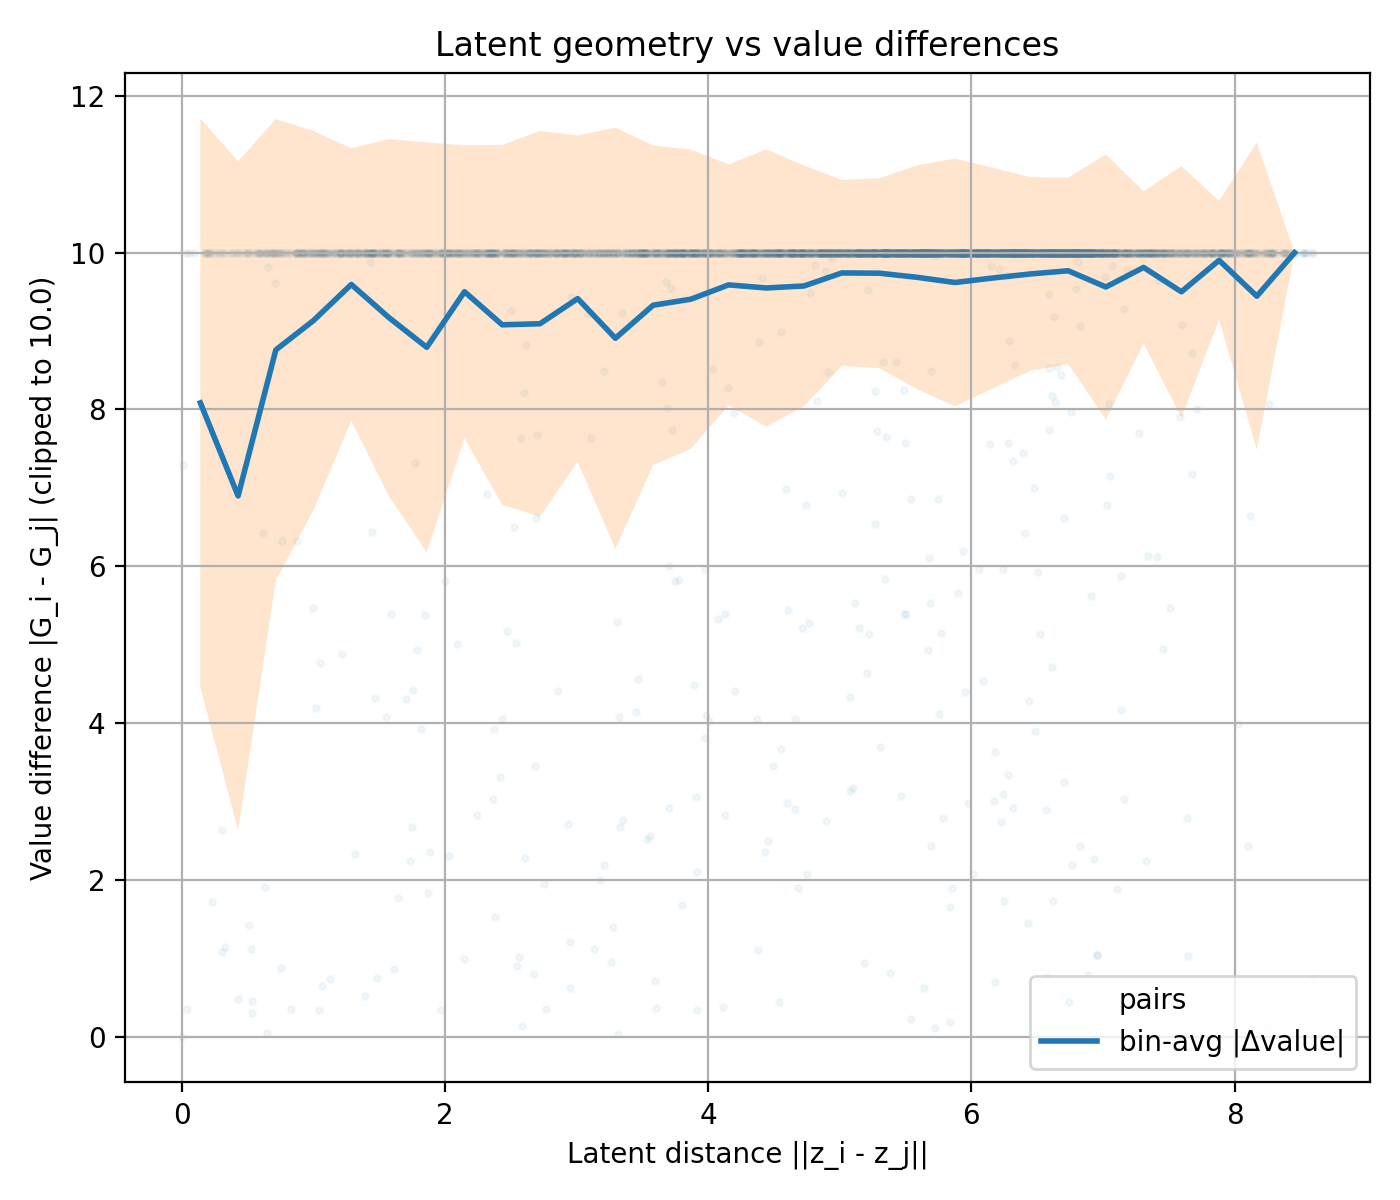
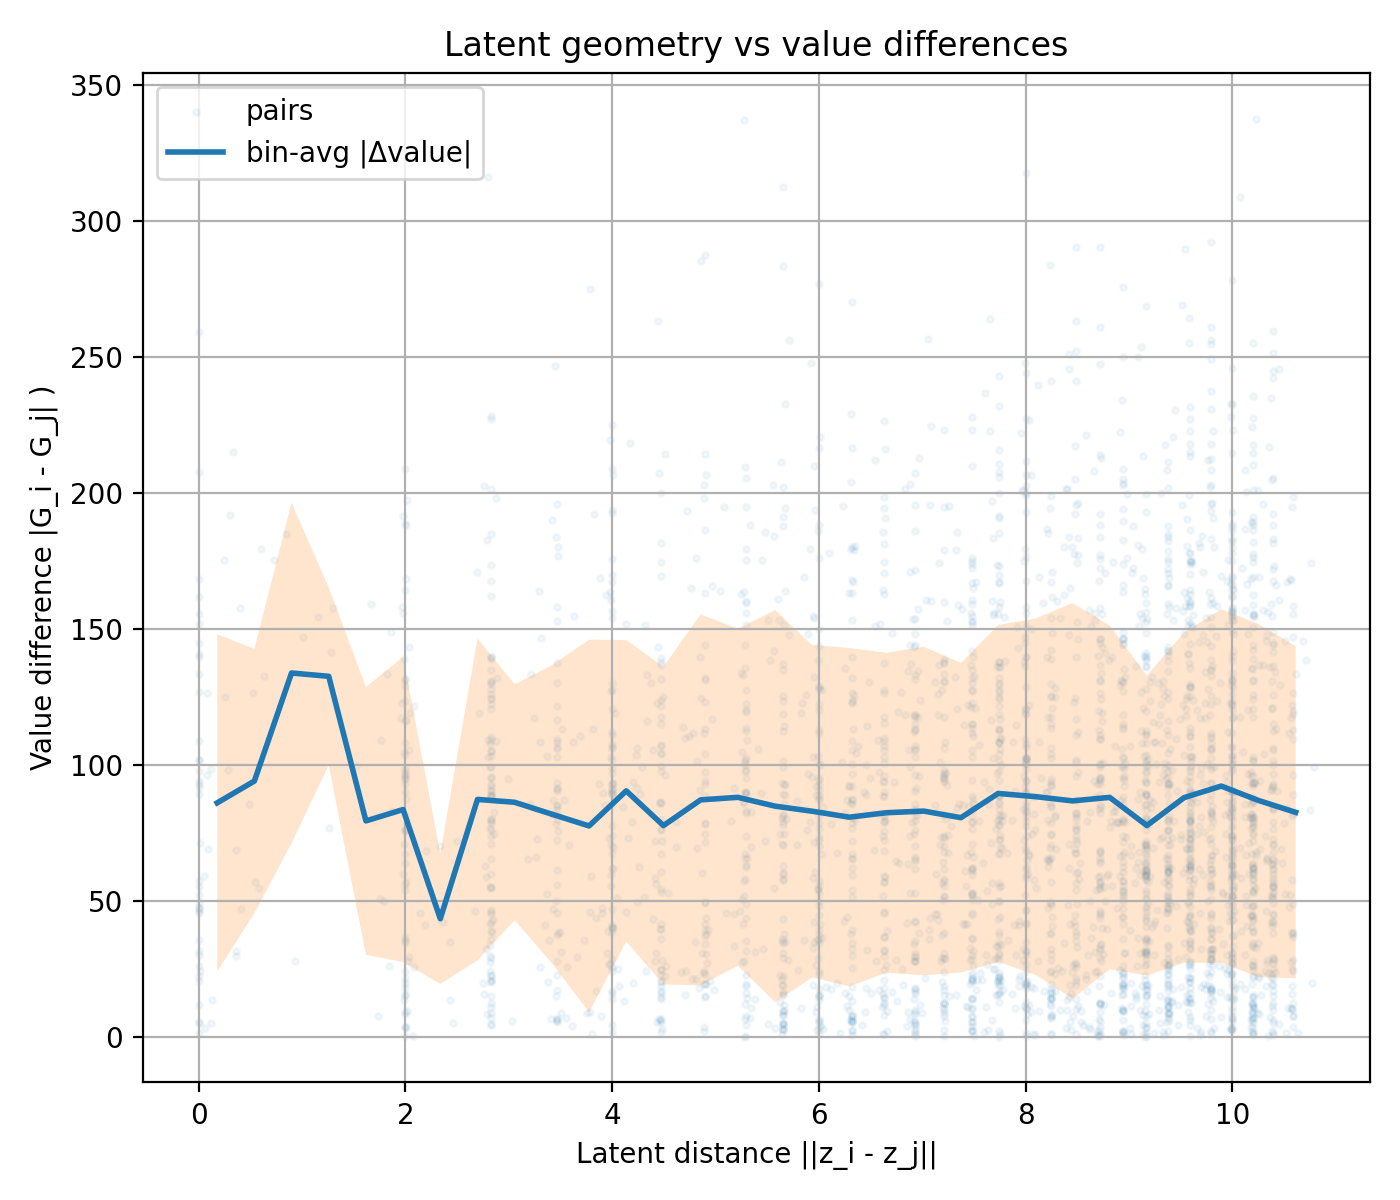
working cnn enc/dec bad sampling

diff --git a/geo_grid.py b/geo_grid.py
@@ -7,6 +7,7 @@ import gymnasium as gym
 import numpy as np
 import torch
 import torch.nn as nn
+import torch.nn.functional as F
 from torch.utils.tensorboard import SummaryWriter
 import matplotlib.pyplot as plt
 
@@ -27,6 +28,8 @@ SEQ_LEN = 50
 
 LATENT_DIM = 32
 HIDDEN_DIM = 128
+RECON_LOSS_WEIGHT = 1.0
+IMG_DOWNSAMPLE = 3  # simple stride downsample of rendered frames
 
 GAMMA = 0.99
 
@@ -78,18 +81,54 @@ def set_seed(seed: int = 0):
     torch.manual_seed(seed)
 
 
+def downsample_image(img: np.ndarray, factor: int = IMG_DOWNSAMPLE):
+    if factor <= 1:
+        return img
+    return img[::factor, ::factor]
+
+
+class PixelObsWrapper(gym.Wrapper):
+    """
+    Replace state observations with rendered RGB frames (downsampled).
+    """
+    def __init__(self, env_id: str, downsample: int = IMG_DOWNSAMPLE):
+        env = gym.make(env_id, render_mode="rgb_array")
+        super().__init__(env)
+        self.downsample = downsample
+        # Probe to set observation space
+        obs, _ = self.env.reset()
+        img = downsample_image(self.env.render(), self.downsample)
+        self.obs_shape = img.shape
+        self.observation_space = gym.spaces.Box(
+            low=0, high=255, shape=self.obs_shape, dtype=np.uint8
+        )
+
+    def reset(self, **kwargs):
+        obs, info = self.env.reset(**kwargs)
+        img = downsample_image(self.env.render(), self.downsample)
+        return img, info
+
+    def step(self, action):
+        obs, reward, terminated, truncated, info = self.env.step(action)
+        img = downsample_image(self.env.render(), self.downsample)
+        return img, reward, terminated, truncated, info
+
+
 # ===============================
 #  Replay Buffer
 # ===============================
 
 class ReplayBuffer:
-    def __init__(self, capacity: int, obs_dim: int, act_dim: int):
+    def __init__(self, capacity: int, obs_shape, act_dim: int):
+        """
+        obs_shape: (H, W, C) pixel observations stored as uint8 for memory efficiency.
+        """
         self.capacity = capacity
-        self.obs = np.zeros((capacity, obs_dim), dtype=np.float32)
+        self.obs = np.zeros((capacity, *obs_shape), dtype=np.uint8)
         self.actions = np.zeros((capacity, act_dim), dtype=np.float32)
         self.rews = np.zeros(capacity, dtype=np.float32)
         self.dones = np.zeros(capacity, dtype=np.float32)
-        self.next_obs = np.zeros((capacity, obs_dim), dtype=np.float32)
+        self.next_obs = np.zeros((capacity, *obs_shape), dtype=np.uint8)
 
         self.idx = 0
         self.size = 0
@@ -160,20 +199,85 @@ class MLP(nn.Module):
         return self.net(x)
 
 
-class Encoder(nn.Module):
-    def __init__(self, obs_dim, latent_dim=LATENT_DIM):
+class ConvEncoder(nn.Module):
+    """
+    Lightweight CNN encoder for pixel observations (C, H, W) -> latent.
+    Uses three stride-2 conv blocks to downsample.
+    """
+    def __init__(self, obs_shape, latent_dim=LATENT_DIM):
         super().__init__()
-        self.net = MLP(obs_dim, latent_dim)
+        c, h, w = obs_shape
+        self.conv = nn.Sequential(
+            nn.Conv2d(c, 32, kernel_size=4, stride=2, padding=1),
+            nn.ReLU(),
+            nn.Conv2d(32, 64, kernel_size=4, stride=2, padding=1),
+            nn.ReLU(),
+            nn.Conv2d(64, 128, kernel_size=4, stride=2, padding=1),
+            nn.ReLU(),
+        )
+        # determine flattened size dynamically
+        with torch.no_grad():
+            dummy = torch.zeros(1, c, h, w)
+            out = self.conv(dummy)
+            self.conv_out_shape = out.shape[1:]  # (C, H, W)
+            conv_out_size = out.view(1, -1).size(1)
+        self.fc = nn.Linear(conv_out_size, latent_dim)
 
     def forward(self, obs):
-        # obs: [B, T, obs_dim] or [B, obs_dim]
-        if obs.dim() == 3:
-            B, T, D = obs.shape
-            x = obs.reshape(B * T, D)
-            z = self.net(x)
-            return torch.tanh(z).reshape(B, T, -1)
-        else:  # [B, D]
-            return torch.tanh(self.net(obs))
+        """
+        obs: [B, T, C, H, W] or [B, C, H, W]
+        """
+        if obs.dim() == 5:
+            B, T, C, H, W = obs.shape
+            x = obs.reshape(B * T, C, H, W)
+            x = x.contiguous()
+            z = self.fc(self.conv(x).view(B * T, -1))
+            return torch.tanh(z).view(B, T, -1)
+        else:
+            obs = obs.contiguous()
+            z = self.fc(self.conv(obs).view(obs.size(0), -1))
+            return torch.tanh(z)
+
+
+class ConvDecoder(nn.Module):
+    """
+    Lightweight CNN decoder: latent -> reconstructed pixels in [0,1].
+    Mirrors ConvEncoder with transposed convolutions.
+    """
+    def __init__(self, latent_dim: int, conv_out_shape):
+        super().__init__()
+        c, h, w = conv_out_shape
+        self.h = h
+        self.w = w
+        self.fc = nn.Linear(latent_dim, c * h * w)
+        self.deconv = nn.Sequential(
+            nn.ConvTranspose2d(c, 64, kernel_size=4, stride=2, padding=1),
+            nn.ReLU(),
+            nn.ConvTranspose2d(64, 32, kernel_size=4, stride=2, padding=1),
+            nn.ReLU(),
+            nn.ConvTranspose2d(32, 3, kernel_size=4, stride=2, padding=1),
+            nn.Sigmoid(),
+        )
+
+    def forward(self, z):
+        """
+        z: [B, T, latent_dim] or [B, latent_dim]
+        """
+        if z.dim() == 3:
+            B, T, D = z.shape
+            x = z.reshape(B * T, D)
+        else:
+            B, D = z.shape
+            x = z
+        x = x.contiguous()
+        x = self.fc(x)
+        x = x.view(x.size(0), -1, self.h, self.w)
+        x = self.deconv(x)
+        x = x.contiguous()
+        if z.dim() == 3:
+            return x.view(B, T, 3, x.size(-2), x.size(-1)).contiguous()
+        else:
+            return x.contiguous()
 
 
 class DynamicsModel(nn.Module):
@@ -253,7 +357,8 @@ def pearsonr_torch(x: torch.Tensor, y: torch.Tensor) -> torch.Tensor:
 
 
 def world_model_loss(batch: ReplayBuffer.Batch,
-                     encoder: Encoder,
+                     encoder: ConvEncoder,
+                     decoder: ConvDecoder,
                      dynamics: DynamicsModel,
                      reward_model: RewardModel,
                      device,
@@ -270,12 +375,13 @@ def world_model_loss(batch: ReplayBuffer.Batch,
       extras: optional tensors for visualization (latent histograms)
     """
 
-    obs = torch.tensor(batch.obs, dtype=torch.float32, device=device)              # [B, T, obs_dim]
+    obs = torch.tensor(batch.obs, dtype=torch.float32, device=device) / 255.0      # [B, T, H, W, C]
+    obs = obs.permute(0, 1, 4, 2, 3)                                               # [B, T, C, H, W]
     actions = torch.tensor(batch.actions, dtype=torch.float32, device=device)      # [B, T, act_dim]
     rews = torch.tensor(batch.rews, dtype=torch.float32, device=device)            # [B, T]
     dones = torch.tensor(batch.dones, dtype=torch.float32, device=device)          # [B, T]
 
-    B, T, _ = obs.shape
+    B, T, C, H, W = obs.shape
 
     # Encode observations to latent
     z = encoder(obs)                      # [B, T, latent_dim]
@@ -304,12 +410,22 @@ def world_model_loss(batch: ReplayBuffer.Batch,
                           a_t.reshape(-1, a_t.size(-1)))
     r_pred = r_pred.view(B, T - 1)
 
+    # Reconstruction loss (decoder)
+    recon = decoder(z)  # [B, T, 3, H_dec, W_dec] or [B, 3, H_dec, W_dec]
+    if recon.dim() == 5:
+        recon = recon.view(B * T, 3, recon.size(-2), recon.size(-1))
+    target = obs.reshape(B * T, 3, H, W)
+    # Adjust recon size to match target if needed
+    if recon.shape[-2:] != target.shape[-2:]:
+        recon = F.interpolate(recon, size=target.shape[-2:], mode="bilinear", align_corners=False)
+    mse = nn.MSELoss()
+    L_recon = mse(recon, target)
+
     # One-step dynamics loss with masking over valid transitions
     dyn_err = (z_tp1_pred - z_tp1_target.detach()).pow(2).sum(-1)  # [B, T-1]
     L_dyn = (dyn_err * mask).sum() / mask.sum().clamp_min(1.0)
 
     # Reward loss (no masking needed: last reward before done is still valid)
-    mse = nn.MSELoss()
     L_r = mse(r_pred, r_t)
 
     # Geodesic rollout alignment (multi-step) with mask
@@ -320,7 +436,7 @@ def world_model_loss(batch: ReplayBuffer.Batch,
 
     # Euclidean distance as proxy for latent geodesic
     geo_dist = torch.sqrt(torch.clamp((z_roll - z_true_seq.detach()).pow(2).sum(-1), min=1e-8))  # [B, T-1]
-    geo_dist = torch.clamp(geo_dist, max=BISIM_CLIP_VALUE)
+    #geo_dist = torch.clamp(geo_dist, max=BISIM_CLIP_VALUE)
     geo_err = (geo_dist ** 2) * mask
     L_geo = geo_err.sum() / mask.sum().clamp_min(1.0)
 
@@ -338,9 +454,9 @@ def world_model_loss(batch: ReplayBuffer.Batch,
     v1, v2 = v_flat[idx1], v_flat[idx2]
     value_diff = (v1 - v2).abs()
 
-    value_diff = torch.clamp(value_diff, max=BISIM_CLIP_VALUE)
+    #value_diff = torch.clamp(value_diff, max=BISIM_CLIP_VALUE)
     dist = torch.sqrt(torch.clamp((z1 - z2).pow(2).sum(-1), min=1e-8))
-    dist = torch.clamp(dist, max=BISIM_CLIP_VALUE)
+    #dist = torch.clamp(dist, max=BISIM_CLIP_VALUE)
     # Regress distance toward value difference
     L_bisim = ((dist - value_diff.detach()) ** 2).mean()
 
@@ -377,6 +493,7 @@ def world_model_loss(batch: ReplayBuffer.Batch,
     loss = L_dyn + REWARD_LOSS_WEIGHT * L_r
     loss = loss + alpha_geo * L_geo + alpha_bisim * L_bisim
     loss = loss + LATENT_NORM_WEIGHT * latent_reg + LATENT_STD_WEIGHT * latent_std_loss
+    loss = loss + RECON_LOSS_WEIGHT * L_recon
 
     # Collect scalar logs (loss components)
     logs.update({
@@ -386,6 +503,7 @@ def world_model_loss(batch: ReplayBuffer.Batch,
         "L_bisim": L_bisim.item(),
         "L_latent_reg": latent_reg.item(),
         "L_latent_std": latent_std_loss.item(),
+        "L_recon": L_recon.item(),
     })
 
     # Optional extras for histograms
@@ -477,7 +595,7 @@ def cem_plan(z0: torch.Tensor,
 # ===============================
 
 def visualize_geometry(batch: ReplayBuffer.Batch,
-                       encoder: Encoder,
+                       encoder: ConvEncoder,
                        device,
                        gamma: float,
                        save_path: str,
@@ -490,7 +608,8 @@ def visualize_geometry(batch: ReplayBuffer.Batch,
     scale used in training for L_bisim. This makes the relationship much clearer.
     """
 
-    obs = torch.tensor(batch.obs, dtype=torch.float32, device=device)    # [B, T, obs_dim]
+    obs = torch.tensor(batch.obs, dtype=torch.float32, device=device) / 255.0  # [B, T, H, W, C]
+    obs = obs.permute(0, 1, 4, 2, 3)  # [B, T, C, H, W]
     rews = torch.tensor(batch.rews, dtype=torch.float32, device=device)  # [B, T]
     dones = torch.tensor(batch.dones, dtype=torch.float32, device=device)# [B, T]
 
@@ -512,9 +631,10 @@ def visualize_geometry(batch: ReplayBuffer.Batch,
         dist = torch.sqrt(torch.clamp((z1 - z2).pow(2).sum(-1), min=1e-8)).cpu().numpy()
         val_diff = (v1 - v2).abs().cpu().numpy()
 
+    """
     if clip_to_bisim:
         val_diff = np.minimum(val_diff, BISIM_CLIP_VALUE)
-
+    """
     # Build binned profile: mean |Δvalue| per distance bin
     if dist.max() > 0:
         bins = np.linspace(0.0, dist.max(), num_bins + 1)
@@ -539,7 +659,7 @@ def visualize_geometry(batch: ReplayBuffer.Batch,
     plt.figure(figsize=(7, 6))
     plt.scatter(dist, val_diff, alpha=0.05, s=5, label="pairs")
     plt.xlabel("Latent distance ||z_i - z_j||")
-    plt.ylabel(f"Value difference |G_i - G_j| (clipped to {BISIM_CLIP_VALUE})"
+    plt.ylabel(f"Value difference |G_i - G_j| )"
                if clip_to_bisim else "Value difference |G_i - G_j|")
 
     # Overlay line for bins
@@ -565,14 +685,14 @@ def visualize_geometry(batch: ReplayBuffer.Batch,
 # ===============================
 
 def evaluate_env(env_id,
-                 encoder: Encoder,
+                 encoder: ConvEncoder,
                  dynamics: DynamicsModel,
                  reward_model: RewardModel,
                  horizon: int,
                  episodes: int = 5,
                  device=None):
     device = device or get_device()
-    env = gym.make(env_id)
+    env = PixelObsWrapper(env_id, downsample=IMG_DOWNSAMPLE)
     returns = []
 
     for _ in range(episodes):
@@ -581,7 +701,8 @@ def evaluate_env(env_id,
         ep_ret = 0.0
 
         while not done:
-            obs_t = torch.tensor(obs, dtype=torch.float32, device=device).unsqueeze(0)  # [1, obs_dim]
+            obs_t = torch.tensor(obs, dtype=torch.float32, device=device) / 255.0
+            obs_t = obs_t.permute(2, 0, 1).unsqueeze(0)  # [1, C, H, W]
             with torch.no_grad():
                 z0 = encoder(obs_t)  # [1, latent_dim]
                 action = cem_plan(z0, dynamics, reward_model, env.action_space,
@@ -601,12 +722,15 @@ def main():
     device = get_device()
     print("Using device:", device)
 
-    env = gym.make(ENV_ID)
+    env = PixelObsWrapper(ENV_ID, downsample=IMG_DOWNSAMPLE)
     obs, _ = env.reset()
-    obs_dim = env.observation_space.shape[0]
+    obs_shape = env.observation_space.shape  # (H, W, C)
+    # Convert to (C, H, W) for model shapes
+    c, h, w = obs_shape[2], obs_shape[0], obs_shape[1]
     act_dim = env.action_space.shape[0]
 
-    encoder = Encoder(obs_dim, LATENT_DIM).to(device)
+    encoder = ConvEncoder((c, h, w), LATENT_DIM).to(device)
+    decoder = ConvDecoder(LATENT_DIM, encoder.conv_out_shape).to(device)
     dynamics = DynamicsModel(LATENT_DIM, act_dim).to(device)
     reward_model = RewardModel(LATENT_DIM, act_dim).to(device)
 
@@ -621,11 +745,12 @@ def main():
         run_name = f"{RUN_BASE_NAME}_baseline"
 
     world_model_params = list(encoder.parameters()) + \
+                         list(decoder.parameters()) + \
                          list(dynamics.parameters()) + \
                          list(reward_model.parameters())
     optimizer = torch.optim.Adam(world_model_params, lr=1e-4, weight_decay=1e-4)
 
-    replay = ReplayBuffer(capacity=100_000, obs_dim=obs_dim, act_dim=act_dim)
+    replay = ReplayBuffer(capacity=100_000, obs_shape=obs_shape, act_dim=act_dim)
 
     writer = SummaryWriter(log_dir=f"runs/{run_name}")
 
@@ -641,7 +766,8 @@ def main():
         if global_step < RANDOM_STEPS:
             action = env.action_space.sample()
         else:
-            obs_t = torch.tensor(obs, dtype=torch.float32, device=device).unsqueeze(0)
+            obs_t = torch.tensor(obs, dtype=torch.float32, device=device) / 255.0
+            obs_t = obs_t.permute(2, 0, 1).unsqueeze(0)  # [1, C, H, W]
             with torch.no_grad():
                 z0 = encoder(obs_t)
                 action = cem_plan(z0, dynamics, reward_model, env.action_space,
@@ -650,10 +776,10 @@ def main():
         next_obs, reward, terminated, truncated, _ = env.step(action)
         done = terminated or truncated
 
-        replay.add(np.asarray(obs, dtype=np.float32),
+        replay.add(np.asarray(obs, dtype=np.uint8),
                    np.asarray(action, dtype=np.float32),
                    float(reward),
-                   np.asarray(next_obs, dtype=np.float32),
+                   np.asarray(next_obs, dtype=np.uint8),
                    done)
 
         episode_return += reward
@@ -679,6 +805,7 @@ def main():
                 loss, logs, extras = world_model_loss(
                     batch,
                     encoder,
+                    decoder,
                     dynamics,
                     reward_model,
                     device=device,
